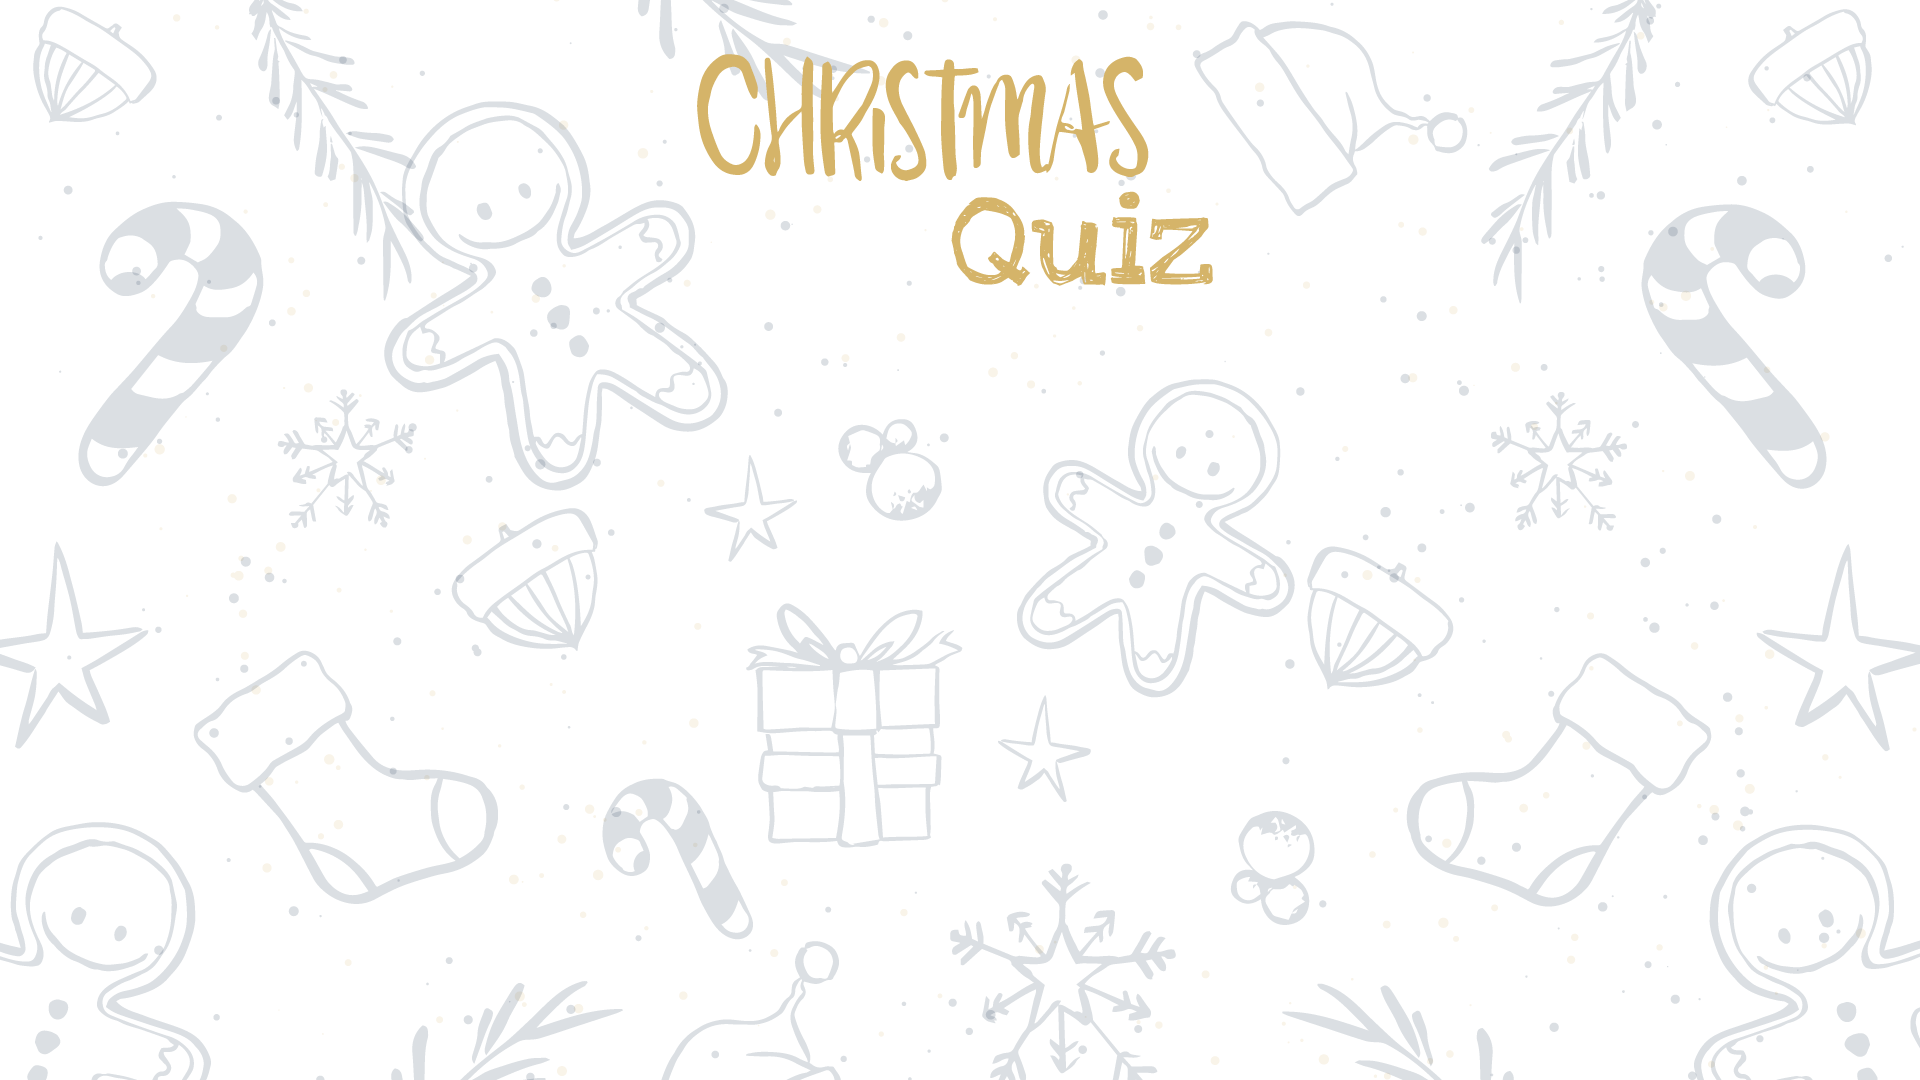
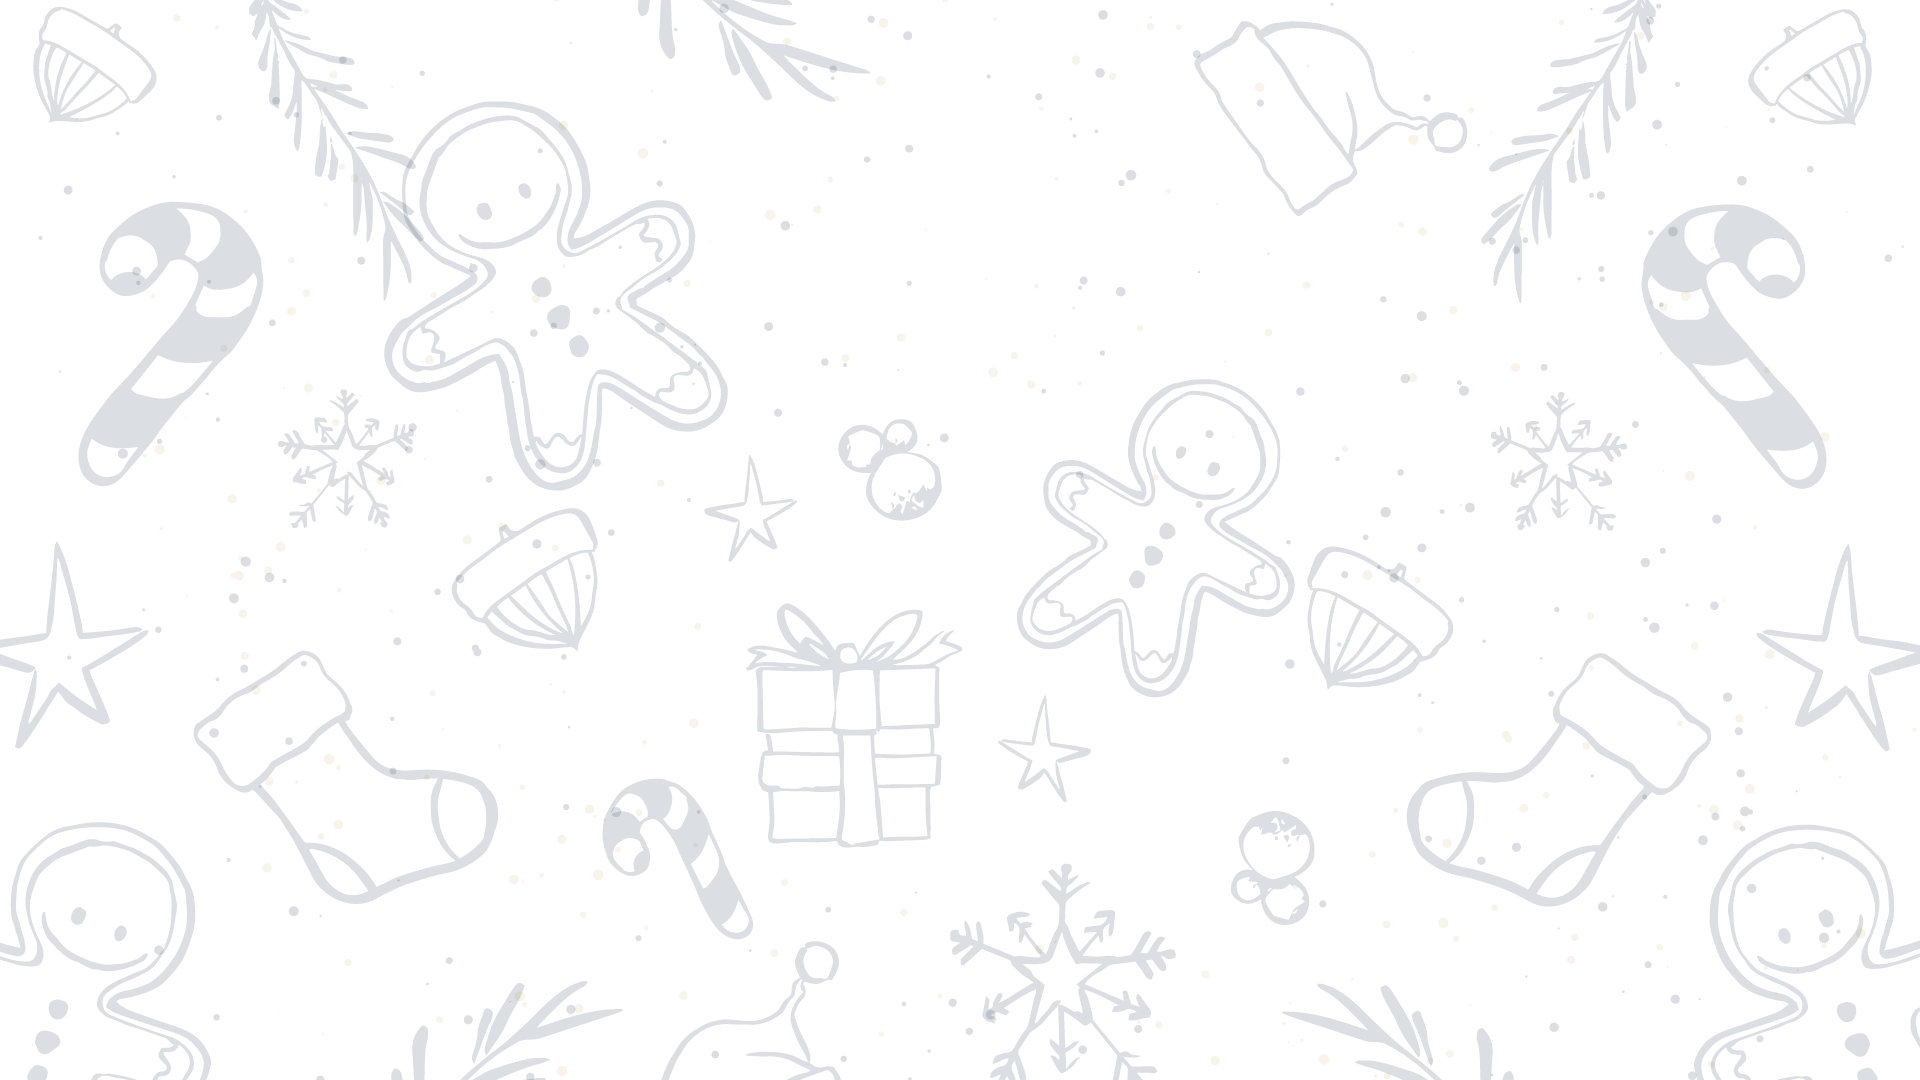
add header and btn css

Changed region(s): [[0.3438, 0.0306, 0.6562, 0.275]]

diff --git a/assets/css/style.css b/assets/css/style.css
@@ -3,5 +3,57 @@ body {
     -webkit-background-size: cover;
     -moz-background-size: cover;
     background-size: cover;
-    -o-background-size: cover;	
+    -o-background-size: cover;
+    text-align:center;	
+}
+
+/* Main Container */
+.container {
+    margin: 0 auto;
+    max-width: 960px;
+    width: 100%;
+}
+
+/* Header */
+#headerText {
+    font-family: 'Cardo', serif;
+    font-size:3em;
+    color: white;
+    border: 2px solid white;
+    background-color: #d5b469;
+    padding: 15px;
+}
+
+/* Button */
+.btn-primary {
+    -webkit-transition-duration: 0.4s; /* Safari */
+    transition-duration: 0.4s;
+}
+
+.btn-primary, .reset {
+	background-color: #d5b469;
+	color: white;
+	font-family: 'Cardo', serif;
+	font-size: 1.5em;
+    padding: 15px 30px;
+    border: solid 2px white;
+    margin: 40% auto;
+    outline: 0;
+}
+
+.btn-primary:hover, .reset:hover {
+    background-color: #caa451;
+    border: solid 2px white;
+    outline: 0;
+}
+
+.btn-primary:focus {
+    outline: 0;
+    background-color: #caa451;
+}
+
+.btn-primary:active {
+    outline: 0;
+    background-color: #caa451;
+    border: solid 2px white;
 }

diff --git a/index.html b/index.html
@@ -25,6 +25,10 @@
     <body>
         
         <div class="container">
+            <header>
+                <h1 id="headerText">A Holly and Jolly Christmas Quiz</h1>
+            </header>
+
             <!-- Start Button -->
             <button class="btn btn-primary" id="startBtn">START</button>
 
